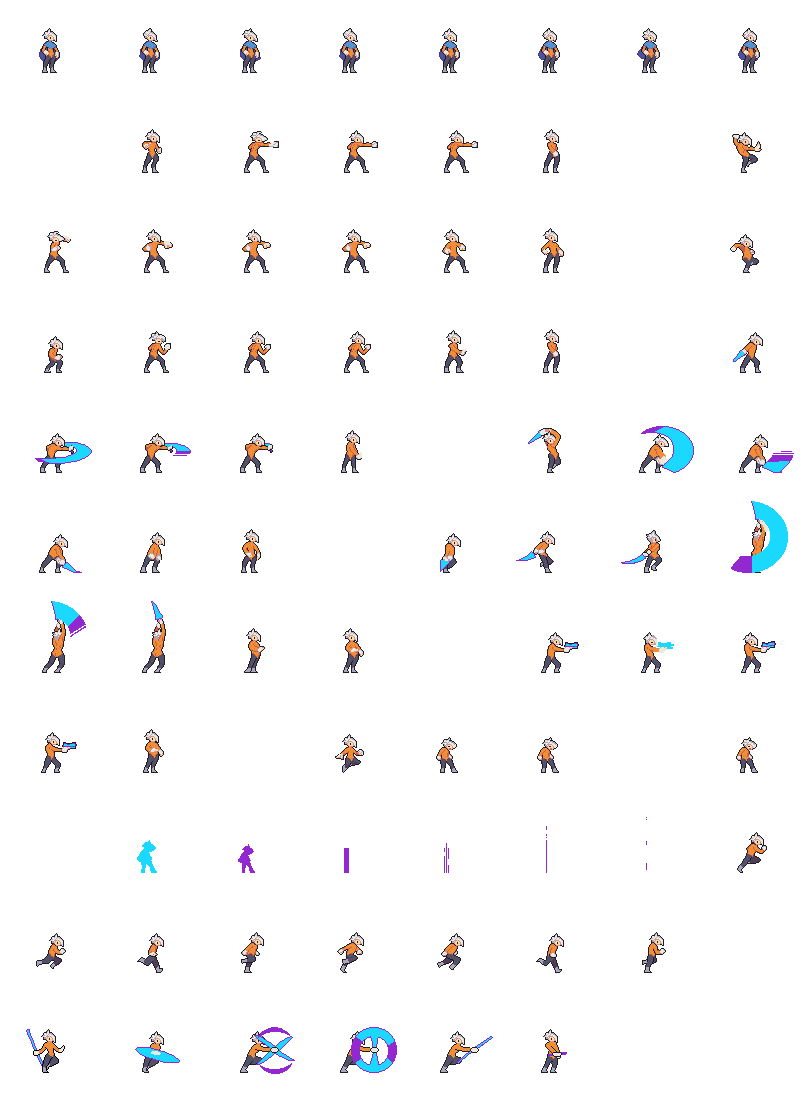
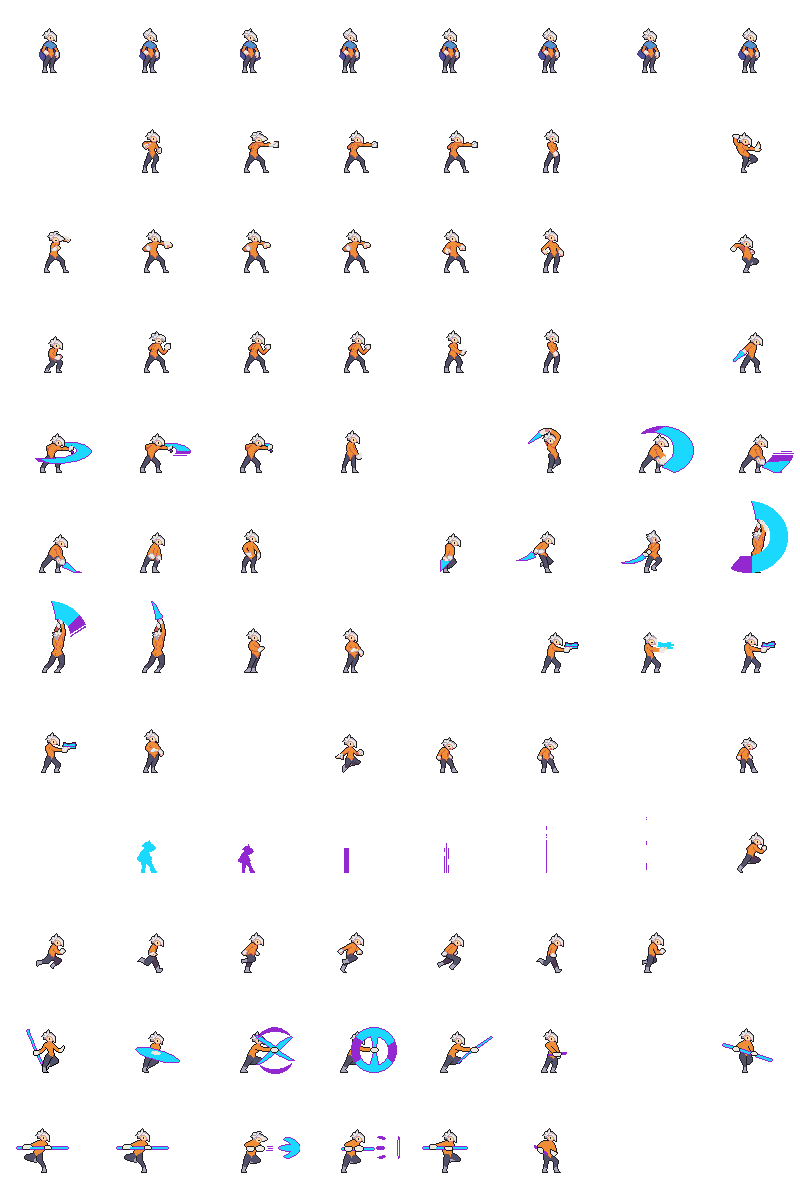
Fix combos links

diff --git a/MonoGameJam1/Components/Player/PlayerComponent.cs b/MonoGameJam1/Components/Player/PlayerComponent.cs
@@ -35,7 +35,9 @@ namespace MonoGameJam1.Components.Player
             Stand,
             Walking,
             Jumping,
-            
+            Hit,
+            Dying,
+
             Fist1,
             Fist2,
             Fist3,
@@ -47,14 +49,10 @@ namespace MonoGameJam1.Components.Player
             Quarterstaff1,
             Quarterstaff2,
             Quarterstaff3,
-            Quarterstaff4,
 
             Pistol1,
             Pistol2,
             Pistol3,
-            
-            Hit,
-            Dying
         }
 
         private Dictionary<Animations, string> _animationMap;
@@ -182,7 +180,6 @@ namespace MonoGameJam1.Components.Player
                 {Animations.Quarterstaff1, "quarterstaff1"},
                 {Animations.Quarterstaff2, "quarterstaff2"},
                 {Animations.Quarterstaff3, "quarterstaff3"},
-                {Animations.Quarterstaff4, "quarterstaff4"},
 
                 {Animations.Pistol1, "pistol1"},
                 {Animations.Pistol2, "pistol2"},
@@ -193,10 +190,13 @@ namespace MonoGameJam1.Components.Player
             };
 
             LinkableFrames = new Dictionary<Animations, int[]>();
-
             var am = _animationMap;
-
             sprite = entity.addComponent(new AnimatedSprite(texture, am[Animations.Stand]));
+
+            // == GENERAL ANIMATIONS ==
+
+            #region General Animations
+
             sprite.CreateAnimation(am[Animations.Stand], 0.1f);
             sprite.AddFrames(am[Animations.Stand], new List<Rectangle>()
             {
@@ -229,10 +229,32 @@ namespace MonoGameJam1.Components.Player
                 new Rectangle(300, 700, 100, 100),
             });
 
+            sprite.CreateAnimation(am[Animations.Hit], 0.09f, false);
+            sprite.AddFrames(am[Animations.Hit], new List<Rectangle>()
+            {
+                new Rectangle(400, 700, 100, 100),
+                new Rectangle(500, 700, 100, 100),
+            });
+
+            sprite.CreateAnimation(am[Animations.Dying], 0.09f, false);
+            sprite.AddFrames(am[Animations.Dying], new List<Rectangle>()
+            {
+                new Rectangle(700, 700, 100, 100),
+                new Rectangle(0, 800, 100, 100),
+                new Rectangle(100, 800, 100, 100),
+                new Rectangle(200, 800, 100, 100),
+                new Rectangle(300, 800, 100, 100),
+                new Rectangle(400, 800, 100, 100),
+                new Rectangle(500, 800, 100, 100),
+                new Rectangle(600, 800, 100, 100),
+            });
+
+            #endregion
+
             // == FIRST ATTACKS ==
 
             #region Fist Animations
-            
+
             sprite.CreateAnimation(am[Animations.Fist1], 0.09f, false);
             sprite.AddFrames(am[Animations.Fist1], new List<Rectangle>()
             {
@@ -398,31 +420,26 @@ namespace MonoGameJam1.Components.Player
             sprite.CreateAnimation(am[Animations.Quarterstaff3], 0.1f, false);
             sprite.AddFrames(am[Animations.Quarterstaff3], new List<Rectangle>()
             {
-                new Rectangle(64, 96, 32, 32),
-                new Rectangle(64, 96, 32, 32),
+                new Rectangle(700, 1000, 100, 100),
+                new Rectangle(0, 1100, 100, 100),
+                new Rectangle(100, 1100, 100, 100),
+                new Rectangle(200, 1100, 100, 100),
+                new Rectangle(300, 1100, 100, 100),
+                new Rectangle(400, 1100, 100, 100),
+                new Rectangle(500, 1100, 100, 100),
             });
             sprite.AddAttackCollider(am[Animations.Quarterstaff3], new List<List<Rectangle>>
             {
                 new List<Rectangle>(),
-                new List<Rectangle> { new Rectangle(0, -10, 60, 18) },
-            });
-            sprite.AddFramesToAttack(am[Animations.Quarterstaff3], 1);
-
-            sprite.CreateAnimation(am[Animations.Quarterstaff4], 0.1f, false);
-            sprite.AddFrames(am[Animations.Quarterstaff4], new List<Rectangle>()
-            {
-                new Rectangle(96, 96, 32, 32),
-                new Rectangle(96, 96, 32, 32),
-            });
-            sprite.AddAttackCollider(am[Animations.Quarterstaff4], new List<List<Rectangle>>
-            {
                 new List<Rectangle>(),
-                new List<Rectangle> { new Rectangle(0, -10, 60, 18) },
+                new List<Rectangle>(),
+                new List<Rectangle> { new Rectangle(0, -10, 54, 18) },
             });
-            sprite.AddFramesToAttack(am[Animations.Quarterstaff4], 1);
+            sprite.AddFramesToAttack(am[Animations.Quarterstaff3], 3);
+            LinkableFrames[Animations.Quarterstaff3] = new[] { 3, 4 };
 
             #endregion
-            
+
             // == PISTOL ATTACKS ==
 
             #region Pistol Animations
@@ -479,28 +496,6 @@ namespace MonoGameJam1.Components.Player
             LinkableFrames[Animations.Pistol3] = new[] { 3, 4 };
 
             #endregion
-
-            // == MISC ANIMATIONS ==
-
-            sprite.CreateAnimation(am[Animations.Hit], 0.09f, false);
-            sprite.AddFrames(am[Animations.Hit], new List<Rectangle>()
-            {
-                new Rectangle(400, 700, 100, 100),
-                new Rectangle(500, 700, 100, 100),
-            });
-
-            sprite.CreateAnimation(am[Animations.Dying], 0.09f, false);
-            sprite.AddFrames(am[Animations.Dying], new List<Rectangle>()
-            {
-                new Rectangle(700, 700, 100, 100),
-                new Rectangle(0, 800, 100, 100),
-                new Rectangle(100, 800, 100, 100),
-                new Rectangle(200, 800, 100, 100),
-                new Rectangle(300, 800, 100, 100),
-                new Rectangle(400, 800, 100, 100),
-                new Rectangle(500, 800, 100, 100),
-                new Rectangle(600, 800, 100, 100),
-            });
 
             // init fsm
             _fsm = new FiniteStateMachine<PlayerState, PlayerComponent>(this, new StandState());
@@ -730,6 +725,11 @@ namespace MonoGameJam1.Components.Player
         public void OpenWeaponSelection()
         {
             _weaponSelectionComponent.Open();
+        }
+
+        public bool IsChoosingWeapon()
+        {
+            return _weaponSelectionComponent.IsOpen;
         }
 
         public void ChangeWeapon(Weapon newWeapon)

diff --git a/MonoGameJam1/Components/Player/WeaponSelectionComponent.cs b/MonoGameJam1/Components/Player/WeaponSelectionComponent.cs
@@ -11,7 +11,7 @@ namespace MonoGameJam1.Components.Player
         public override float height => _texture?.Height ?? 1;
 
         private Texture2D _texture;
-        private bool _isOpen;
+        public bool IsOpen { get; private set; }
         private float _closeTick;
         private float _openInterval;
 
@@ -33,7 +33,7 @@ namespace MonoGameJam1.Components.Player
             if (_openInterval > 0) return;
 
             _openInterval = 0.1f;
-            _isOpen = true;
+            IsOpen = true;
             _inputManager.IsBusy = true;
             _closeTick = 0;
             Time.timeScale = 0f;
@@ -41,7 +41,7 @@ namespace MonoGameJam1.Components.Player
 
         public void Close()
         {
-            _isOpen = false;
+            IsOpen = false;
             _inputManager.IsBusy = false;
             Time.timeScale = 1f;
         }
@@ -54,7 +54,7 @@ namespace MonoGameJam1.Components.Player
 
         public override void render(Graphics graphics, Camera camera)
         {
-            if (!_isOpen) return;
+            if (!IsOpen) return;
 
             var x = _collider.bounds.x - (width - _collider.width) / 2;
             var y = _collider.bounds.y - (height - _collider.height) / 2;
@@ -67,7 +67,7 @@ namespace MonoGameJam1.Components.Player
             if (_openInterval > 0)
                 _openInterval -= Time.deltaTime;
 
-            if (_isOpen)
+            if (IsOpen)
             {
                 _closeTick += Time.unscaledDeltaTime;
                 if (_closeTick >= 0.1 && 
@@ -76,7 +76,9 @@ namespace MonoGameJam1.Components.Player
                 if (_inputManager.LeftButton.isPressed)
                     PickWeapon(Weapon.Fist);
                 if (_inputManager.UpButton.isPressed)
+                {
                     PickWeapon(Weapon.Sword);
+                }
                 if (_inputManager.RightButton.isPressed)
                     PickWeapon(Weapon.Quarterstaff);
                 if (_inputManager.DownButton.isPressed)

diff --git a/MonoGameJam1/Components/Player/PlayerStates.cs b/MonoGameJam1/Components/Player/PlayerStates.cs
@@ -259,7 +259,9 @@ namespace MonoGameJam1.Components.Player
         public override void update()
         {
             base.update();
-            if (entity.CanLinkCombo(Animation) && _input.UpButton.isDown)
+            if (entity.IsChoosingWeapon()) return;
+
+            if (entity.CanLinkCombo(Animation) && _input.UpButton.isPressed)
             {
                 fsm.resetStackTo(new JumpingState(true));
                 return;
@@ -378,15 +380,6 @@ namespace MonoGameJam1.Components.Player
         public QuarterstaffAttack3()
         {
             Animation = PlayerComponent.Animations.Quarterstaff3;
-            NextComboState = new QuarterstaffAttack4();
-        }
-    }
-
-    public class QuarterstaffAttack4 : BaseAttackComboState
-    {
-        public QuarterstaffAttack4()
-        {
-            Animation = PlayerComponent.Animations.Quarterstaff4;
             HorizontalKnockback = 0.09f;
             IsFinal = true;
         }

diff --git a/MonoGameJam1/Components/Battle/Enemies/EnemyImpComponent.cs b/MonoGameJam1/Components/Battle/Enemies/EnemyImpComponent.cs
@@ -148,7 +148,7 @@ namespace MonoGameJam1.Components.Battle.Enemies
         public override void onAddedToEntity()
         {
             base.onAddedToEntity();
-            _battleComponent.setHp(10);
+            _battleComponent.setHp(13);
 
             // Change move speed
             changeSpeed(ImpVelocity.Normal);
